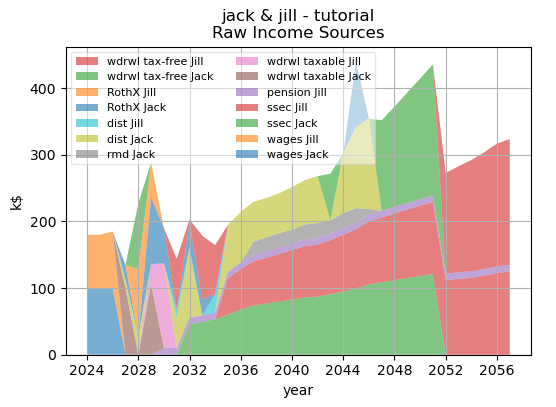
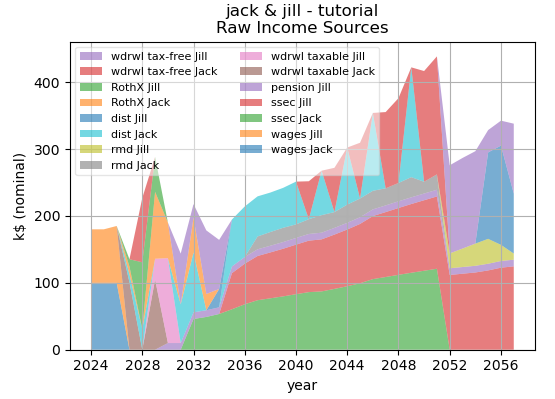
Update graphs. Fixed typo.

diff --git a/owl.py b/owl.py
@@ -245,11 +245,11 @@ class Plan:
         if value is None:
             return self.defaultPlots
 
-        opts = ['nomimal', 'today']
+        opts = ['nominal', 'today']
         if value in opts:
             return value
 
-        u.xprint('Value type must be one of', *opts)
+        u.xprint('Value type must be one of:', *opts)
 
         return
 
